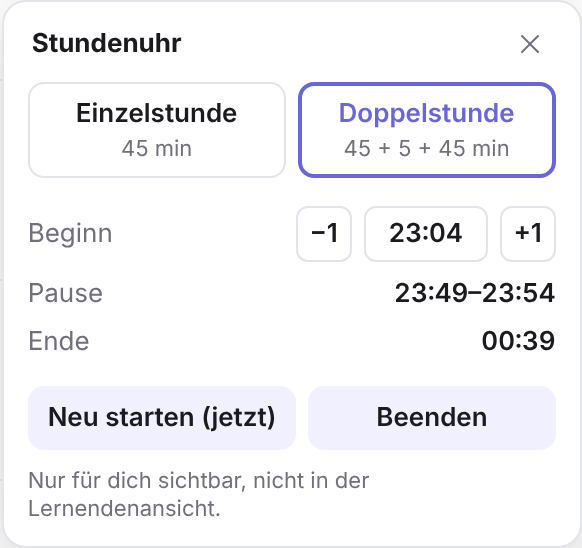
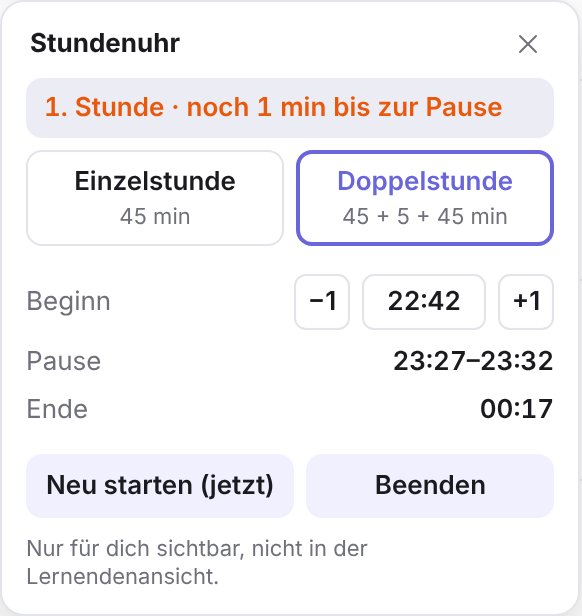
Stundenuhr: Anzeige in der Leiste ohne Umbruch
- Kurzform in der Leiste (z. B. "23 min", "Pause 3 min", "+2 min")
- Bei schmaler Leiste automatisch Minimalform ("23′")
- Symbol wird nicht mehr gestaucht, Text bricht nie um
- Ausführliche Anzeige im Tooltip und als Statuszeile im Fenster

diff --git a/excalidraw-timer.js b/excalidraw-timer.js
@@ -1456,27 +1456,46 @@
       return { phase: 'over', ms: el - totalMin(lesson.type, lesson.len, lesson.brk) * MIN };
     }
 
+    function remMin(st) { return Math.ceil(st.ms / MIN); }
+
+    // Kurzform für die Leiste (muss schmal bleiben)
     function label() {
       var st = status(now());
       if (!st) return null;
-      var rem = Math.ceil(st.ms / MIN);
       var warn = st.ms <= LESSON_WARN_MINUTES * MIN;
       switch (st.phase) {
-        case 'before': return { text: 'Beginn in ' + rem + ' min', cls: 'paused' };
-        case 'single': return { text: 'noch ' + rem + ' min', cls: warn ? 'warn' : '' };
-        case 'first': return { text: '1. Std. · noch ' + rem + ' min', cls: warn ? 'warn' : '' };
-        case 'break': return { text: 'Pause · noch ' + rem + ' min', cls: 'paused' };
-        case 'second': return { text: '2. Std. · noch ' + rem + ' min', cls: warn ? 'warn' : '' };
+        // "mini" wird genutzt, wenn die Excalidraw-Leiste zu schmal ist
+        case 'before': return { text: 'in ' + remMin(st) + ' min', mini: remMin(st) + '′', cls: 'paused' };
+        case 'break': return { text: 'Pause ' + remMin(st) + ' min', mini: 'P ' + remMin(st) + '′', cls: 'paused' };
+        case 'single': case 'first': case 'second':
+          return { text: remMin(st) + ' min', mini: remMin(st) + '′', cls: warn ? 'warn' : '' };
         default:
           var over = Math.floor(st.ms / MIN);
-          return { text: over > 0 ? 'Ende · +' + over + ' min' : 'Ende', cls: 'alarm' };
+          return { text: over > 0 ? '+' + over + ' min' : 'Ende', mini: over > 0 ? '+' + over + '′' : '0′', cls: 'alarm' };
+      }
+    }
+
+    // Ausführliche Form für Tooltip und Fenster
+    function longText() {
+      var st = status(now());
+      if (!st) return '';
+      var r = remMin(st);
+      switch (st.phase) {
+        case 'before': return 'Beginnt in ' + r + ' min';
+        case 'single': return 'Noch ' + r + ' min';
+        case 'first': return '1. Stunde · noch ' + r + ' min bis zur Pause';
+        case 'break': return 'Pause · noch ' + r + ' min';
+        case 'second': return '2. Stunde · noch ' + r + ' min';
+        default:
+          var over = Math.floor(st.ms / MIN);
+          return over > 0 ? 'Stunde vorbei · ' + over + ' min überzogen' : 'Stunde vorbei';
       }
     }
 
     function title() {
       if (!lesson) return 'Stundenuhr';
-      return 'Stundenuhr – ' + (lesson.type === 'double' ? 'Doppelstunde' : 'Einzelstunde') +
-        ', ' + hhmm(lesson.start) + '–' + hhmm(endAt());
+      return 'Stundenuhr – ' + longText() + ' (' + (lesson.type === 'double' ? 'Doppelstunde' : 'Einzelstunde') +
+        ', ' + hhmm(lesson.start) + '–' + hhmm(endAt()) + ')';
     }
 
     // Abgelaufene Stunde nach einer Weile von selbst entfernen
@@ -1517,6 +1536,9 @@
     var CSS = BASE_CSS + '\n' + [
       '.panel{width:290px;cursor:default;padding:8px 12px 12px}',
       '.types{display:flex;gap:6px;margin:6px 0 10px}',
+      '.now{font-weight:600;padding:7px 9px;border-radius:8px;background:var(--track);margin-top:4px;font-variant-numeric:tabular-nums}',
+      '.now.warn{color:#e8590c}',
+      '.now.alarm{color:var(--warn)}',
       '.type{flex:1;display:flex;flex-direction:column;align-items:center;gap:2px;padding:7px 4px;border-radius:8px;border:1px solid var(--border);background:transparent;color:var(--fg);font:inherit;font-weight:600;cursor:pointer}',
       '.type small{font-weight:400;font-size:11px;color:var(--muted)}',
       '.type:hover{background:var(--btn)}',
@@ -1541,6 +1563,7 @@
         '<div class="panel" role="dialog" aria-label="Stundenuhr">' +
         '  <div class="head"><span class="title">Stundenuhr</span><span class="spacer"></span>' +
         '    <button class="icon" data-act="close" title="Schließen">' + ICON_CLOSE + '</button></div>' +
+        '  <div class="now" hidden></div>' +
         '  <div class="types">' +
         '    <button class="type" data-act="type" data-type="single">Einzelstunde<small class="d-single"></small></button>' +
         '    <button class="type" data-act="type" data-type="double">Doppelstunde<small class="d-double"></small></button>' +
@@ -1612,6 +1635,13 @@
       var L = lenMin(), B = brkMin();
       var type = lesson ? lesson.type : prefType;
       pop.panel.classList.toggle('dark', isDark());
+      var nowEl = r.querySelector('.now');
+      var lt = longText();
+      nowEl.hidden = !lt;
+      if (nowEl.textContent !== lt) nowEl.textContent = lt;
+      var lab = label();
+      nowEl.className = 'now' + (lab && (lab.cls === 'warn' || lab.cls === 'alarm') ? ' ' + lab.cls : '');
+      nowEl.hidden = !lt;
       r.querySelector('.d-single').textContent = LESSON_MINUTES + ' min';
       r.querySelector('.d-double').textContent = LESSON_MINUTES + ' + ' + LESSON_BREAK_MINUTES + ' + ' + LESSON_MINUTES + ' min';
       Array.prototype.forEach.call(r.querySelectorAll('.type'), function (b) {
@@ -1677,11 +1707,12 @@
       '  border-radius:var(--border-radius-lg,.5rem);background:transparent;color:var(--icon-fill-color,#1b1b1f);cursor:pointer}',
       '.sf-ex-tbtn:hover{background:var(--button-hover-bg,rgba(0,0,0,.06))}',
       '.sf-ex-tbtn.sf-active{background:var(--color-primary-light,#e0dfff);color:var(--color-primary-darker,#5b57d1)}',
-      '.sf-ex-tbtn svg{width:var(--lg-icon-size,1rem);height:var(--lg-icon-size,1rem);pointer-events:none}',
+      '.sf-ex-tbtn svg{width:var(--lg-icon-size,1rem);height:var(--lg-icon-size,1rem);pointer-events:none;flex:0 0 auto}',
       '.sf-ex-tbtn .sf-badge{position:absolute;top:4px;right:4px;width:7px;height:7px;border-radius:50%;background:#e03131;display:none}',
       '.sf-ex-tbtn.sf-running .sf-badge{display:block}',
       '.sf-ex-tbtn .sf-tlabel{display:none;margin-left:5px;font:600 11px/1 system-ui,-apple-system,"Segoe UI",Roboto,sans-serif;font-variant-numeric:tabular-nums;letter-spacing:.2px;pointer-events:none}',
-      '.sf-ex-tbtn.sf-has-label{width:auto!important;padding:0 8px 0 7px}',
+      '.sf-ex-tbtn.sf-has-label{width:auto!important;padding:0 8px 0 7px;flex-shrink:0;white-space:nowrap}',
+      '.sf-ex-tbtn .sf-tlabel{white-space:nowrap}',
       '.sf-ex-tbtn.sf-has-label .sf-tlabel{display:inline}',
       '.sf-ex-tbtn.sf-has-label .sf-badge{display:none!important}',
       '.sf-ex-tbtn .sf-tlabel.paused{opacity:.55}',
@@ -1835,8 +1866,16 @@
         lb.classList.toggle('sf-has-label', !!ll);
         var lspan = lb.querySelector('.sf-tlabel');
         if (lspan) {
-          var lt = ll ? ll.text : '';
+          var lt = ll ? (lb.__mini ? ll.mini : ll.text) : '';
           if (lspan.textContent !== lt) lspan.textContent = lt;
+          // Passt die Leiste nicht mehr, auf die Minimalform umschalten (und erst bei viel Platz zurück)
+          var bar = lb.parentElement;
+          if (ll && bar && bar.id !== FLOAT_ID) {
+            var over = bar.scrollWidth - bar.clientWidth;
+            if (!lb.__mini && over > 1) { lb.__mini = true; lspan.textContent = ll.mini; }
+            else if (lb.__mini && lb.__fullW && bar.clientWidth - (bar.scrollWidth - lb.offsetWidth + lb.__fullW) > 8) { lb.__mini = false; lspan.textContent = ll.text; }
+            if (!lb.__mini) lb.__fullW = lb.offsetWidth;
+          }
           var lc = 'sf-tlabel' + (ll && ll.cls ? ' ' + ll.cls : '');
           if (lspan.className !== lc) lspan.className = lc;
         }

diff --git a/README.md b/README.md
@@ -72,9 +72,10 @@ Teilnehmern einer gemeinsamen Whiteboard-Sitzung synchronisiert und nicht in der
 
 ## Stundenuhr
 
-Ganz rechts in der Leiste zeigt ein Uhr-Symbol die Restzeit der laufenden Unterrichtsstunde, z. B.
-„noch 23 min“. Die Anzeige ist minutengenau, damit sie nicht ständig springt. Sie ist nur für Lehrende gedacht
-und erscheint in der Lernendenansicht nie.
+Ganz rechts in der Leiste zeigt ein Uhr-Symbol die Restzeit der laufenden Unterrichtsstunde, z. B. „23 min“.
+Die Anzeige ist minutengenau, damit sie nicht ständig springt. Sie ist nur für Lehrende gedacht und erscheint in
+der Lernendenansicht nie. Die ausführliche Fassung (z. B. „1. Stunde · noch 23 min bis zur Pause“) steht im
+Tooltip und oben im Fenster der Stundenuhr.
 
 <p>
   <img src="docs/images/lesson-toolbar.png" alt="Stundenuhr in der Leiste" height="44">
@@ -91,13 +92,16 @@ und erscheint in der Lernendenansicht nie.
 
 **Anzeige:**
 
-| Zustand | Anzeige |
-|---|---|
-| Stunde läuft | „noch 23 min“ |
-| Letzte 5 Minuten | Schrift orange |
-| Doppelstunde | „1. Std. · noch 12 min“, „Pause · noch 3 min“, „2. Std. · noch 40 min“ |
-| Überzogen | „Ende · +2 min“ in Rot |
-| Beginn in der Zukunft eingetragen | „Beginn in 5 min“ |
+| Zustand | Leiste | Bei schmaler Leiste |
+|---|---|---|
+| Stunde läuft (auch 1. oder 2. Stunde einer Doppelstunde) | „23 min“ | „23′“ |
+| Letzte 5 Minuten vor Pause oder Ende | orange | orange |
+| Pause in der Doppelstunde | „Pause 3 min“ | „P 3′“ |
+| Überzogen | „+2 min“ in Rot | „+2′“ |
+| Beginn in der Zukunft eingetragen | „in 5 min“ | „5′“ |
+
+Wird die Excalidraw-Leiste zu schmal, etwa in einem kleinen Fenster, schaltet die Anzeige von selbst auf die
+Kurzform um.
 
 Die Stunde läuft über ein Neuladen hinweg weiter und gilt für alle Tabs desselben Browsers. Längen von
 Stunde und Pause stellst du unter [Anpassen](#anpassen) ein.

diff --git a/CHANGELOG.md b/CHANGELOG.md
@@ -3,7 +3,8 @@
 ## 2.2.0 (in Arbeit)
 
 - Neu: Stundenuhr in der Leiste (nur für Lehrende, nie in der Lernendenansicht)
-  - Restzeit der Unterrichtsstunde minutengenau, ab 5 Minuten Restzeit orange, beim Überziehen rot
+  - Restzeit der Unterrichtsstunde minutengenau in Kurzform („23 min“), ab 5 Minuten Restzeit orange, beim Überziehen rot
+  - Ausführliche Anzeige im Tooltip und im Fenster; bei schmaler Leiste automatisch Minimalform („23′“)
   - Einzel- oder Doppelstunde mit Pause, Phasen werden angezeigt („1. Std.“, „Pause“, „2. Std.“)
   - Beginn minutengenau verschieben (−1/+1) oder als Uhrzeit eintippen
   - Läuft über Neuladen hinweg, verschwindet 30 Minuten nach Stundenende von selbst
